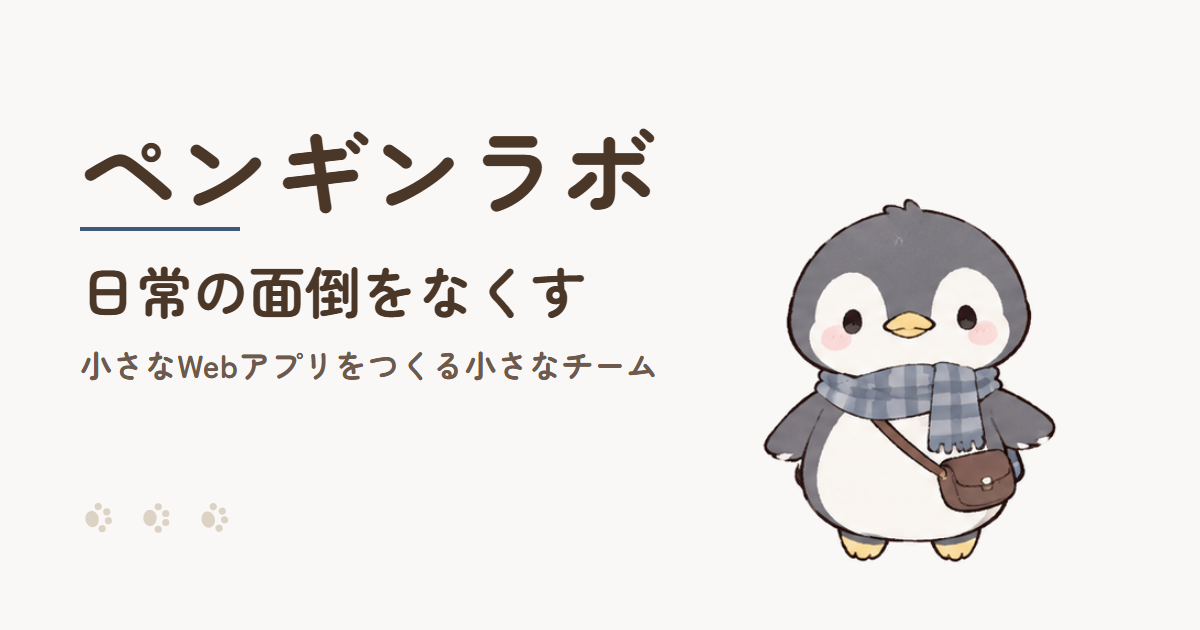
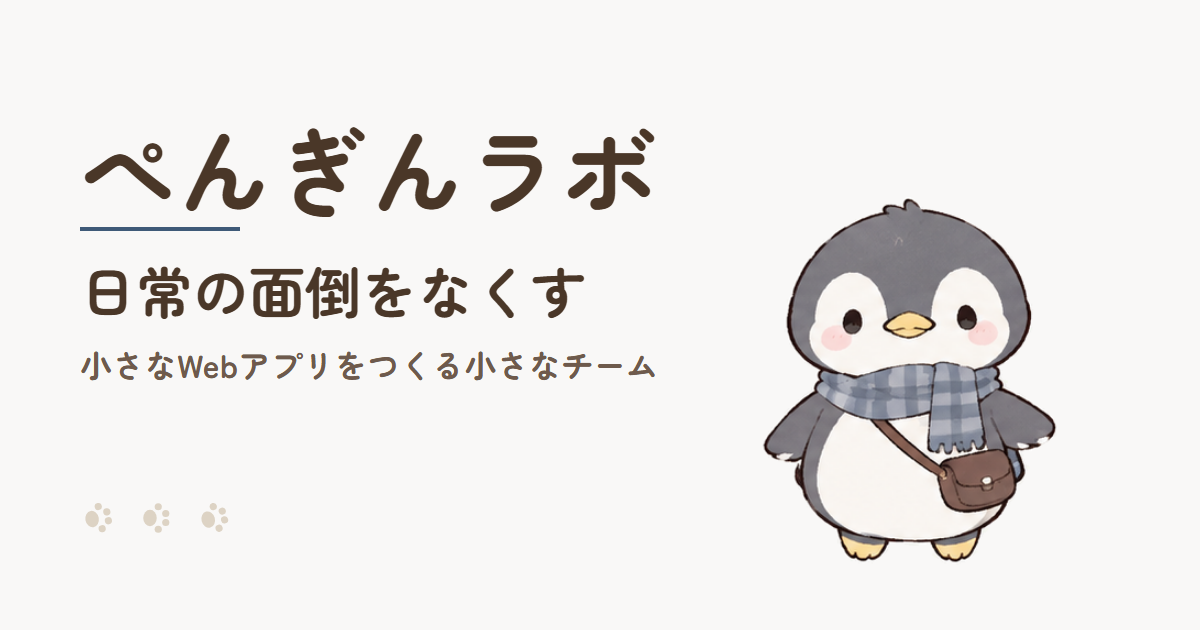
feat: 社名をぺんぎんラボに変更し、ホロとX・noteのURLを追加

Changed region(s): [[0.1542, 0.2111, 0.4008, 0.3619], [0.0925, 0.2413, 0.1233, 0.2714], [0.0617, 0.2714, 0.0925, 0.3016]]

diff --git a/tests/unit/members.test.ts b/tests/unit/members.test.ts
@@ -5,17 +5,17 @@ import { members } from '../../src/data/members';
 import { products } from '../../src/data/products';
 
 describe('members', () => {
-  it('8人が組織図順にそろう', () => {
+  it('9人が組織図順にそろう', () => {
     expect(members.map((m) => m.id)).toEqual([
-      'konko', 'poko', 'hime', 'kerota', 'moko', 'mike', 'penta', 'piyo',
+      'konko', 'poko', 'hime', 'kerota', 'moko', 'mike', 'penta', 'piyo', 'holo',
     ]);
     expect(members.map((m) => m.name)).toEqual([
-      'コンコ', 'ポコ', 'ヒメ', 'ケロタ', 'モコ', 'ミケ', 'ペンタ', 'ピヨ',
+      'コンコ', 'ポコ', 'ヒメ', 'ケロタ', 'モコ', 'ミケ', 'ペンタ', 'ピヨ', 'ホロ',
     ]);
   });
   it('id・名前に重複がなく、全項目が空でない', () => {
-    expect(new Set(members.map((m) => m.id)).size).toBe(8);
-    expect(new Set(members.map((m) => m.name)).size).toBe(8);
+    expect(new Set(members.map((m) => m.id)).size).toBe(9);
+    expect(new Set(members.map((m) => m.name)).size).toBe(9);
     for (const m of members) {
       for (const v of Object.values(m)) expect(v.trim()).not.toBe('');
     }
@@ -29,7 +29,7 @@ describe('members', () => {
   });
   it('口調・モデル名を含まない', () => {
     const text = JSON.stringify(members);
-    for (const w of ['じゃ', 'ケロ！', 'メェ', 'にゃ', 'ぴよ！', 'Sonnet', 'Opus']) {
+    for (const w of ['じゃ', 'ケロ！', 'メェ', 'にゃ', 'ぴよ！', 'ホー', 'Sonnet', 'Opus']) {
       expect(text).not.toContain(w);
     }
   });

diff --git a/tests/components/components.test.ts b/tests/components/components.test.ts
@@ -42,14 +42,14 @@ describe('Products', () => {
 });
 
 describe('Members', () => {
-  it('8枚・組織図順・alt あり', async () => {
+  it('9枚・組織図順・alt あり', async () => {
     const html = await render(Members, { members });
-    expect(count(html, '<li class="member-card"')).toBe(8);
+    expect(count(html, '<li class="member-card"')).toBe(9);
     const pos = members.map((m) => html.indexOf(`alt="${m.name}（${m.motif}）のイラスト"`));
     expect(pos.every((p) => p >= 0)).toBe(true);
     expect([...pos].sort((x, y) => x - y)).toEqual(pos);
     for (const m of members) expect(html).toContain(`alt="${m.name}（${m.motif}）のイラスト"`);
-    expect(html).toContain('ペンギンラボの社員は、代表と一緒に働くAIのキャラクターです。');
+    expect(html).toContain('ぺんぎんラボの社員は、代表と一緒に働くAIのキャラクターです。');
   });
 });
 
@@ -90,7 +90,7 @@ describe('Footer', () => {
     expect(html).toContain('X（準備中）');
     expect(html).toContain('note（準備中）');
     expect(html).not.toContain('<a ');
-    expect(html).toContain('© 2026 ペンギンラボ');
+    expect(html).toContain('© 2026 ぺんぎんラボ');
   });
   it('設定時はリンク', async () => {
     const html = await render(Footer, { xUrl: 'https://x.com/a', noteUrl: 'https://note.com/a' });

diff --git a/src/config.ts b/src/config.ts
@@ -1,7 +1,7 @@
 export const siteConfig = {
-  siteName: 'ペンギンラボ',
+  siteName: 'ぺんぎんラボ',
   description: '毎日の「めんどうだな」を、小さなWebアプリで解決する小さなチームです。',
-  xUrl: '', // 例: 'https://x.com/xxxx'。空ならフッターは「X（準備中）」
-  noteUrl: '', // 例: 'https://note.com/xxxx'。空なら開発ノートは「準備中」で RSS 取得もしない
+  xUrl: 'https://x.com/penguinlab_ofcl', // 空ならフッターは「X（準備中）」
+  noteUrl: 'https://note.com/penguinlab_ofcl', // 空なら開発ノートは「準備中」で RSS 取得もしない
   noteRssUrl: '', // 通常は空。空なら `${noteUrl}/rss` を使う。形式が違った場合だけ入れる
 } as const;

diff --git a/src/data/members.ts b/src/data/members.ts
@@ -82,4 +82,13 @@ export const members: readonly Member[] = [
     career: '個人ブログ3年、分かりやすい文章が得意',
     image: 'members/piyo.webp',
   },
+  {
+    id: 'holo',
+    name: 'ホロ',
+    motif: 'ふくろう',
+    role: 'マーケター',
+    tagline: '物知りで落ち着いた観察家。根拠を確かめる',
+    career: '市場調査会社5年、アクセス解析',
+    image: 'members/holo.webp',
+  },
 ];

diff --git a/scripts/crop_members.py b/scripts/crop_members.py
@@ -3,6 +3,9 @@
 使い方:
     python -m pip install -r scripts/requirements.txt
     python scripts/crop_members.py <members-sheet.png のパス> public/members
+
+元画像シートに無い社員（ホロ）の画像は、400x400 の画像を別に用意して背景だけそろえる:
+    python scripts/crop_members.py --normalize public/members/holo.webp
 """
 import sys
 from pathlib import Path
@@ -55,7 +58,21 @@ def flatten_background(img: Image.Image, tol: int = 6) -> Image.Image:
     return img
 
 
+def normalize_file(path: Path) -> int:
+    img = Image.open(path).convert("RGB")
+    if img.size != (SIZE, SIZE):
+        print(f"{path}: サイズが {img.size}（{SIZE}x{SIZE} が必要）")
+        return 1
+    flatten_background(img).save(path, "WEBP", lossless=True, method=6)
+    out = Image.open(path).convert("RGB")
+    ok = out.getpixel((0, 0)) == BG and out.getpixel((SIZE - 1, SIZE - 1)) == BG
+    print(f"{path.name}: {path.stat().st_size // 1024}KB 四隅={'OK' if ok else 'NG'}")
+    return 0 if ok and path.stat().st_size <= MAX_BYTES else 1
+
+
 def main() -> int:
+    if len(sys.argv) == 3 and sys.argv[1] == "--normalize":
+        return normalize_file(Path(sys.argv[2]))
     if len(sys.argv) != 3:
         print(__doc__)
         return 2

diff --git a/README.md b/README.md
@@ -1,6 +1,6 @@
-# ペンギンラボ 公式サイト
+# ぺんぎんラボ 公式サイト
 
-ペンギンラボの会社紹介ページ（1ページ構成）のソースです。Astro で静的に生成し、GitHub Pages で公開します。
+ぺんぎんラボの会社紹介ページ（1ページ構成）のソースです。Astro で静的に生成し、GitHub Pages で公開します。
 
 ## ローカルで動かす
 
